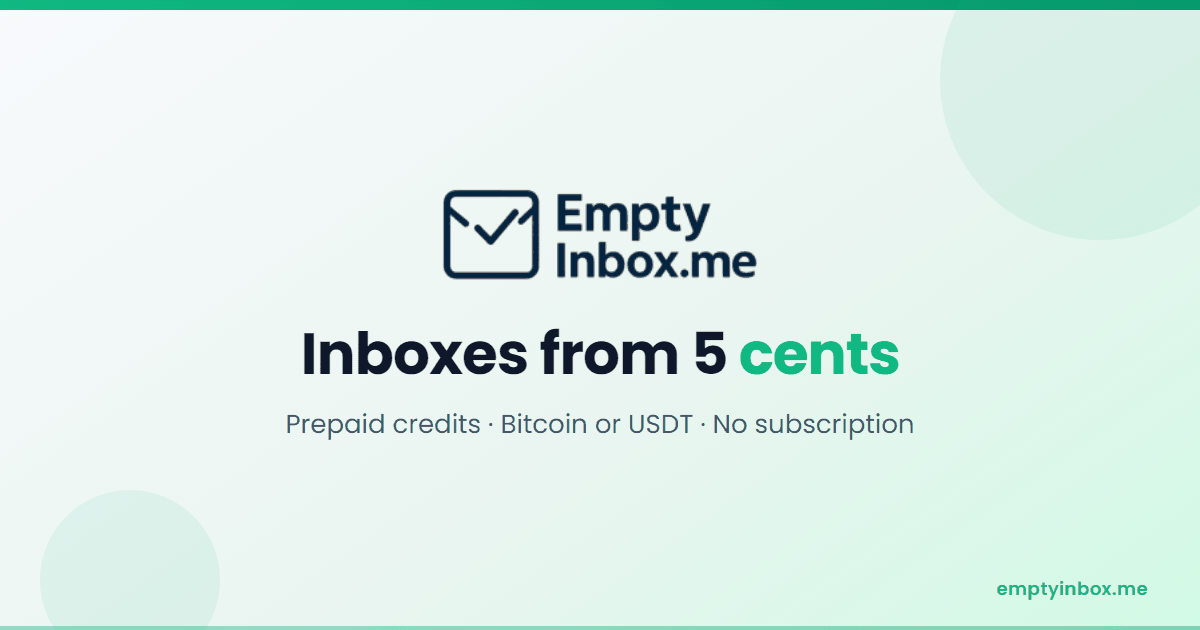
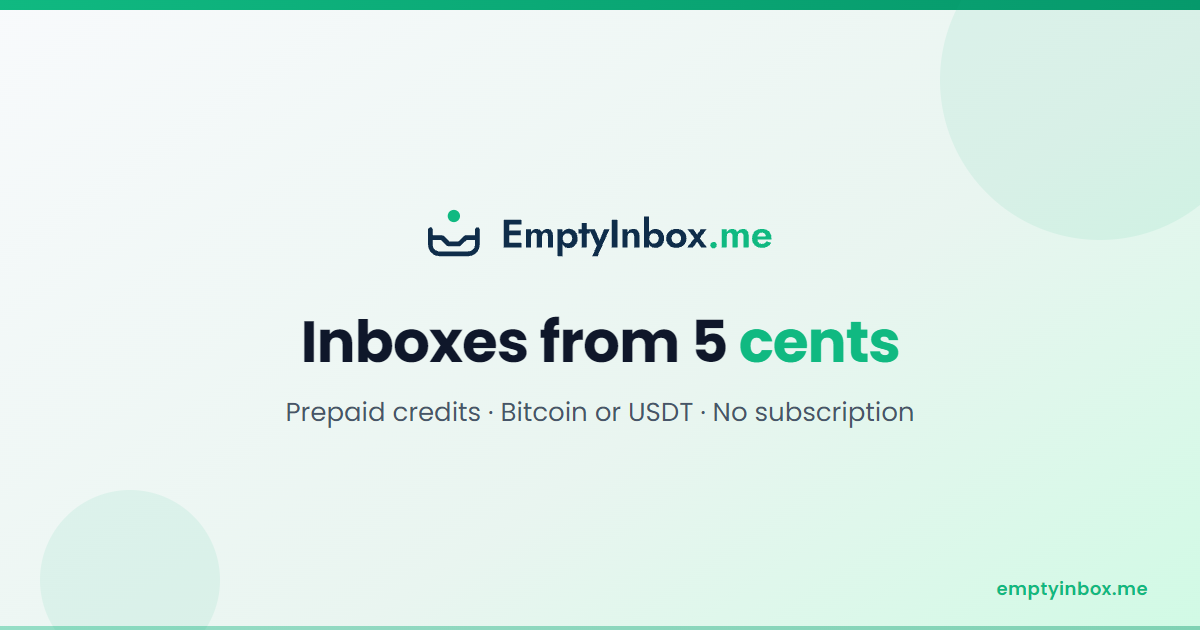
update visuals

diff --git a/static/use-cases/playwright-email-testing.html b/static/use-cases/playwright-email-testing.html
@@ -88,7 +88,7 @@
   <header class="site-navbar">
     <div class="navbar-container">
       <a href="/" class="logo-link">
-        <img src="/assets/emptyinboxlogo.png" alt="EmptyInbox Logo" class="site-logo" width="140" height="36">
+        <svg class="site-logo" width="175" height="36" viewBox="0 0 194 40" role="img" aria-label="EmptyInbox.me"><use href="/assets/logo.svg#logo"/></svg>
       </a>
       <button class="nav-toggle" aria-label="Toggle navigation menu">
         <span class="hamburger-line"></span>
@@ -271,7 +271,7 @@ test('new user can verify their email', async ({ page, inbox }) =&gt; {
       <div class="footer-content">
         <div class="footer-brand">
           <a href="/" class="footer-logo-link">
-            <img src="/assets/emptyinboxlogo.png" alt="EmptyInbox Logo" class="footer-logo" width="120" height="31">
+            <svg class="footer-logo" width="150" height="31" viewBox="0 0 194 40" role="img" aria-label="EmptyInbox.me"><use href="/assets/logo.svg#logo"/></svg>
           </a>
           <p class="footer-brand-text">Disposable email infrastructure for AI agents and developers.</p>
         </div>

diff --git a/static/use-cases/cypress-email-testing.html b/static/use-cases/cypress-email-testing.html
@@ -88,7 +88,7 @@
   <header class="site-navbar">
     <div class="navbar-container">
       <a href="/" class="logo-link">
-        <img src="/assets/emptyinboxlogo.png" alt="EmptyInbox Logo" class="site-logo" width="140" height="36">
+        <svg class="site-logo" width="175" height="36" viewBox="0 0 194 40" role="img" aria-label="EmptyInbox.me"><use href="/assets/logo.svg#logo"/></svg>
       </a>
       <button class="nav-toggle" aria-label="Toggle navigation menu">
         <span class="hamburger-line"></span>
@@ -249,7 +249,7 @@ Cypress.Commands.add('waitForEmail', (address, attempts = 15) =&gt; {
       <div class="footer-content">
         <div class="footer-brand">
           <a href="/" class="footer-logo-link">
-            <img src="/assets/emptyinboxlogo.png" alt="EmptyInbox Logo" class="footer-logo" width="120" height="31">
+            <svg class="footer-logo" width="150" height="31" viewBox="0 0 194 40" role="img" aria-label="EmptyInbox.me"><use href="/assets/logo.svg#logo"/></svg>
           </a>
           <p class="footer-brand-text">Disposable email infrastructure for AI agents and developers.</p>
         </div>

diff --git a/static/docs.html b/static/docs.html
@@ -110,7 +110,7 @@
   <header class="site-navbar">
     <div class="navbar-container">
       <a href="/" class="logo-link">
-        <img src="/assets/emptyinboxlogo.png" alt="EmptyInbox Logo" class="site-logo" width="140" height="36">
+        <svg class="site-logo" width="175" height="36" viewBox="0 0 194 40" role="img" aria-label="EmptyInbox.me"><use href="/assets/logo.svg#logo"/></svg>
       </a>
       <button class="nav-toggle" aria-label="Toggle navigation menu">
         <span class="hamburger-line"></span>
@@ -843,7 +843,7 @@ curl -X POST "https://emptyinbox.me/api/auth/register" \
       <div class="footer-content">
         <div class="footer-brand">
           <a href="/" class="footer-logo-link">
-            <img src="/assets/emptyinboxlogo.png" alt="EmptyInbox Logo" class="footer-logo" width="120" height="31">
+            <svg class="footer-logo" width="150" height="31" viewBox="0 0 194 40" role="img" aria-label="EmptyInbox.me"><use href="/assets/logo.svg#logo"/></svg>
           </a>
           <p class="footer-brand-text">Disposable email infrastructure for AI agents and developers.</p>
         </div>

diff --git a/static/blog/how-to-connect-emptyinbox-to-chatgpt-with-gpt-actions.html b/static/blog/how-to-connect-emptyinbox-to-chatgpt-with-gpt-actions.html
@@ -85,7 +85,7 @@
   <header class="site-navbar">
     <div class="navbar-container">
       <a href="/" class="logo-link">
-        <img src="/assets/emptyinboxlogo.png" alt="EmptyInbox Logo" class="site-logo" width="140" height="36">
+        <svg class="site-logo" width="175" height="36" viewBox="0 0 194 40" role="img" aria-label="EmptyInbox.me"><use href="/assets/logo.svg#logo"/></svg>
       </a>
       <button class="nav-toggle" aria-label="Toggle navigation menu">
         <span class="hamburger-line"></span>
@@ -228,7 +228,7 @@ GPT: Created inbox: rapid.cedar.moon@emptyinbox.me
       <div class="footer-content">
         <div class="footer-brand">
           <a href="/" class="footer-logo-link">
-            <img src="/assets/emptyinboxlogo.png" alt="EmptyInbox Logo" class="footer-logo" width="120" height="31">
+            <svg class="footer-logo" width="150" height="31" viewBox="0 0 194 40" role="img" aria-label="EmptyInbox.me"><use href="/assets/logo.svg#logo"/></svg>
           </a>
           <p class="footer-brand-text">Disposable email infrastructure for AI agents and developers.</p>
         </div>

diff --git a/static/compare/mailslurp-alternative.html b/static/compare/mailslurp-alternative.html
@@ -96,7 +96,7 @@
   <header class="site-navbar">
     <div class="navbar-container">
       <a href="/" class="logo-link">
-        <img src="/assets/emptyinboxlogo.png" alt="EmptyInbox Logo" class="site-logo" width="140" height="36">
+        <svg class="site-logo" width="175" height="36" viewBox="0 0 194 40" role="img" aria-label="EmptyInbox.me"><use href="/assets/logo.svg#logo"/></svg>
       </a>
       <button class="nav-toggle" aria-label="Toggle navigation menu">
         <span class="hamburger-line"></span>
@@ -303,7 +303,7 @@ curl https://emptyinbox.me/api/messages \
       <div class="footer-content">
         <div class="footer-brand">
           <a href="/" class="footer-logo-link">
-            <img src="/assets/emptyinboxlogo.png" alt="EmptyInbox Logo" class="footer-logo" width="120" height="31">
+            <svg class="footer-logo" width="150" height="31" viewBox="0 0 194 40" role="img" aria-label="EmptyInbox.me"><use href="/assets/logo.svg#logo"/></svg>
           </a>
           <p class="footer-brand-text">Disposable email infrastructure for AI agents and developers.</p>
         </div>

diff --git a/static/use-cases/langchain-agent-email.html b/static/use-cases/langchain-agent-email.html
@@ -88,7 +88,7 @@
   <header class="site-navbar">
     <div class="navbar-container">
       <a href="/" class="logo-link">
-        <img src="/assets/emptyinboxlogo.png" alt="EmptyInbox Logo" class="site-logo" width="140" height="36">
+        <svg class="site-logo" width="175" height="36" viewBox="0 0 194 40" role="img" aria-label="EmptyInbox.me"><use href="/assets/logo.svg#logo"/></svg>
       </a>
       <button class="nav-toggle" aria-label="Toggle navigation menu">
         <span class="hamburger-line"></span>
@@ -251,7 +251,7 @@ result = agent.invoke({"messages": [
       <div class="footer-content">
         <div class="footer-brand">
           <a href="/" class="footer-logo-link">
-            <img src="/assets/emptyinboxlogo.png" alt="EmptyInbox Logo" class="footer-logo" width="120" height="31">
+            <svg class="footer-logo" width="150" height="31" viewBox="0 0 194 40" role="img" aria-label="EmptyInbox.me"><use href="/assets/logo.svg#logo"/></svg>
           </a>
           <p class="footer-brand-text">Disposable email infrastructure for AI agents and developers.</p>
         </div>

diff --git a/static/blog/how-to-give-your-claude-agent-an-email-inbox.html b/static/blog/how-to-give-your-claude-agent-an-email-inbox.html
@@ -85,7 +85,7 @@
   <header class="site-navbar">
     <div class="navbar-container">
       <a href="/" class="logo-link">
-        <img src="/assets/emptyinboxlogo.png" alt="EmptyInbox Logo" class="site-logo" width="140" height="36">
+        <svg class="site-logo" width="175" height="36" viewBox="0 0 194 40" role="img" aria-label="EmptyInbox.me"><use href="/assets/logo.svg#logo"/></svg>
       </a>
       <button class="nav-toggle" aria-label="Toggle navigation menu">
         <span class="hamburger-line"></span>
@@ -228,7 +228,7 @@ Done. Account active.</code></pre>
       <div class="footer-content">
         <div class="footer-brand">
           <a href="/" class="footer-logo-link">
-            <img src="/assets/emptyinboxlogo.png" alt="EmptyInbox Logo" class="footer-logo" width="120" height="31">
+            <svg class="footer-logo" width="150" height="31" viewBox="0 0 194 40" role="img" aria-label="EmptyInbox.me"><use href="/assets/logo.svg#logo"/></svg>
           </a>
           <p class="footer-brand-text">Disposable email infrastructure for AI agents and developers.</p>
         </div>

diff --git a/static/index.html b/static/index.html
@@ -110,7 +110,7 @@
   <header class="site-navbar">
     <div class="navbar-container">
       <a href="/" class="logo-link">
-        <img src="/assets/emptyinboxlogo.png" alt="EmptyInbox Logo" class="site-logo" width="140" height="36">
+        <svg class="site-logo" width="175" height="36" viewBox="0 0 194 40" role="img" aria-label="EmptyInbox.me"><use href="/assets/logo.svg#logo"/></svg>
       </a>
       <button class="nav-toggle" aria-label="Toggle navigation menu">
         <span class="hamburger-line"></span>
@@ -338,7 +338,7 @@
       <div class="footer-content">
         <div class="footer-brand">
           <a href="/" class="footer-logo-link">
-            <img src="/assets/emptyinboxlogo.png" alt="EmptyInbox Logo" class="footer-logo" width="120" height="31">
+            <svg class="footer-logo" width="150" height="31" viewBox="0 0 194 40" role="img" aria-label="EmptyInbox.me"><use href="/assets/logo.svg#logo"/></svg>
           </a>
           <p class="footer-brand-text">Disposable email infrastructure for AI agents and developers.</p>
         </div>

diff --git a/static/pricing.html b/static/pricing.html
@@ -147,7 +147,7 @@
   <header class="site-navbar">
     <div class="navbar-container">
       <a href="/" class="logo-link">
-        <img src="/assets/emptyinboxlogo.png" alt="EmptyInbox Logo" class="site-logo" width="140" height="36">
+        <svg class="site-logo" width="175" height="36" viewBox="0 0 194 40" role="img" aria-label="EmptyInbox.me"><use href="/assets/logo.svg#logo"/></svg>
       </a>
       <button class="nav-toggle" aria-label="Toggle navigation menu">
         <span class="hamburger-line"></span>
@@ -355,7 +355,7 @@
       <div class="footer-content">
         <div class="footer-brand">
           <a href="/" class="footer-logo-link">
-            <img src="/assets/emptyinboxlogo.png" alt="EmptyInbox Logo" class="footer-logo" width="120" height="31">
+            <svg class="footer-logo" width="150" height="31" viewBox="0 0 194 40" role="img" aria-label="EmptyInbox.me"><use href="/assets/logo.svg#logo"/></svg>
           </a>
           <p class="footer-brand-text">Disposable email infrastructure for AI agents and developers.</p>
         </div>

diff --git a/static/about.html b/static/about.html
@@ -52,7 +52,7 @@
   <header class="site-navbar">
     <div class="navbar-container">
       <a href="/" class="logo-link">
-        <img src="/assets/emptyinboxlogo.png" alt="EmptyInbox Logo" class="site-logo" width="140" height="36">
+        <svg class="site-logo" width="175" height="36" viewBox="0 0 194 40" role="img" aria-label="EmptyInbox.me"><use href="/assets/logo.svg#logo"/></svg>
       </a>
       <button class="nav-toggle" aria-label="Toggle navigation menu">
         <span class="hamburger-line"></span>
@@ -128,7 +128,7 @@
       <div class="footer-content">
         <div class="footer-brand">
           <a href="/" class="footer-logo-link">
-            <img src="/assets/emptyinboxlogo.png" alt="EmptyInbox Logo" class="footer-logo" width="120" height="31">
+            <svg class="footer-logo" width="150" height="31" viewBox="0 0 194 40" role="img" aria-label="EmptyInbox.me"><use href="/assets/logo.svg#logo"/></svg>
           </a>
           <p class="footer-brand-text">Disposable email infrastructure for AI agents and developers.</p>
         </div>

diff --git a/static/blog/index.html b/static/blog/index.html
@@ -67,7 +67,7 @@
   <header class="site-navbar">
     <div class="navbar-container">
       <a href="/" class="logo-link">
-        <img src="/assets/emptyinboxlogo.png" alt="EmptyInbox Logo" class="site-logo" width="140" height="36">
+        <svg class="site-logo" width="175" height="36" viewBox="0 0 194 40" role="img" aria-label="EmptyInbox.me"><use href="/assets/logo.svg#logo"/></svg>
       </a>
       <button class="nav-toggle" aria-label="Toggle navigation menu">
         <span class="hamburger-line"></span>
@@ -124,7 +124,7 @@
       <div class="footer-content">
         <div class="footer-brand">
           <a href="/" class="footer-logo-link">
-            <img src="/assets/emptyinboxlogo.png" alt="EmptyInbox Logo" class="footer-logo" width="120" height="31">
+            <svg class="footer-logo" width="150" height="31" viewBox="0 0 194 40" role="img" aria-label="EmptyInbox.me"><use href="/assets/logo.svg#logo"/></svg>
           </a>
           <p class="footer-brand-text">Disposable email infrastructure for AI agents and developers.</p>
         </div>

diff --git a/static/compare/disposable-email-api-comparison.html b/static/compare/disposable-email-api-comparison.html
@@ -88,7 +88,7 @@
   <header class="site-navbar">
     <div class="navbar-container">
       <a href="/" class="logo-link">
-        <img src="/assets/emptyinboxlogo.png" alt="EmptyInbox Logo" class="site-logo" width="140" height="36">
+        <svg class="site-logo" width="175" height="36" viewBox="0 0 194 40" role="img" aria-label="EmptyInbox.me"><use href="/assets/logo.svg#logo"/></svg>
       </a>
       <button class="nav-toggle" aria-label="Toggle navigation menu">
         <span class="hamburger-line"></span>
@@ -300,7 +300,7 @@
       <div class="footer-content">
         <div class="footer-brand">
           <a href="/" class="footer-logo-link">
-            <img src="/assets/emptyinboxlogo.png" alt="EmptyInbox Logo" class="footer-logo" width="120" height="31">
+            <svg class="footer-logo" width="150" height="31" viewBox="0 0 194 40" role="img" aria-label="EmptyInbox.me"><use href="/assets/logo.svg#logo"/></svg>
           </a>
           <p class="footer-brand-text">Disposable email infrastructure for AI agents and developers.</p>
         </div>
